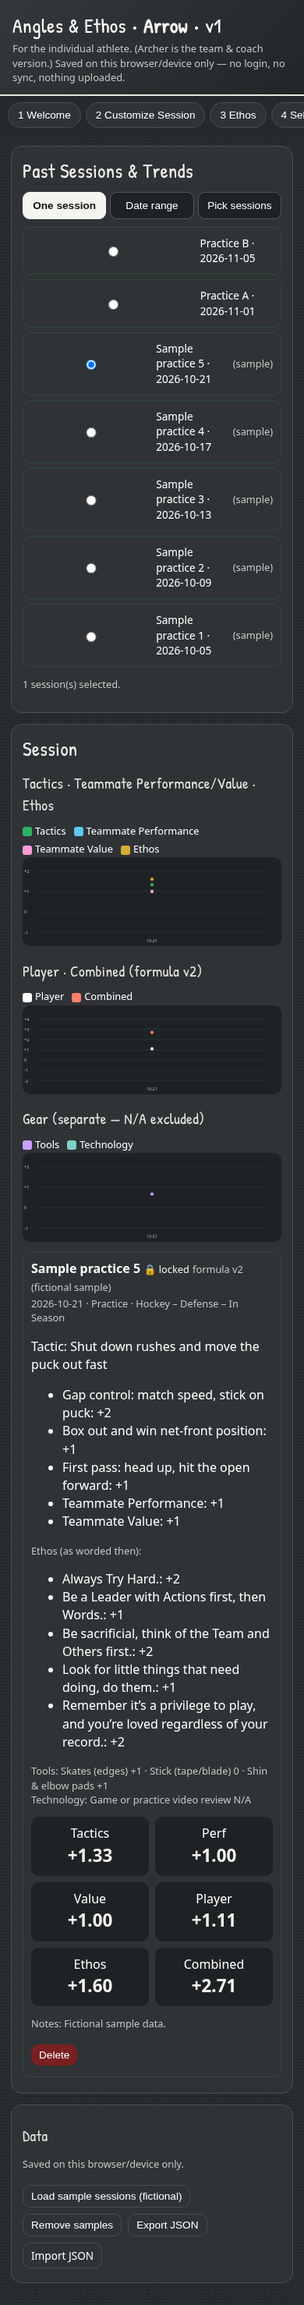
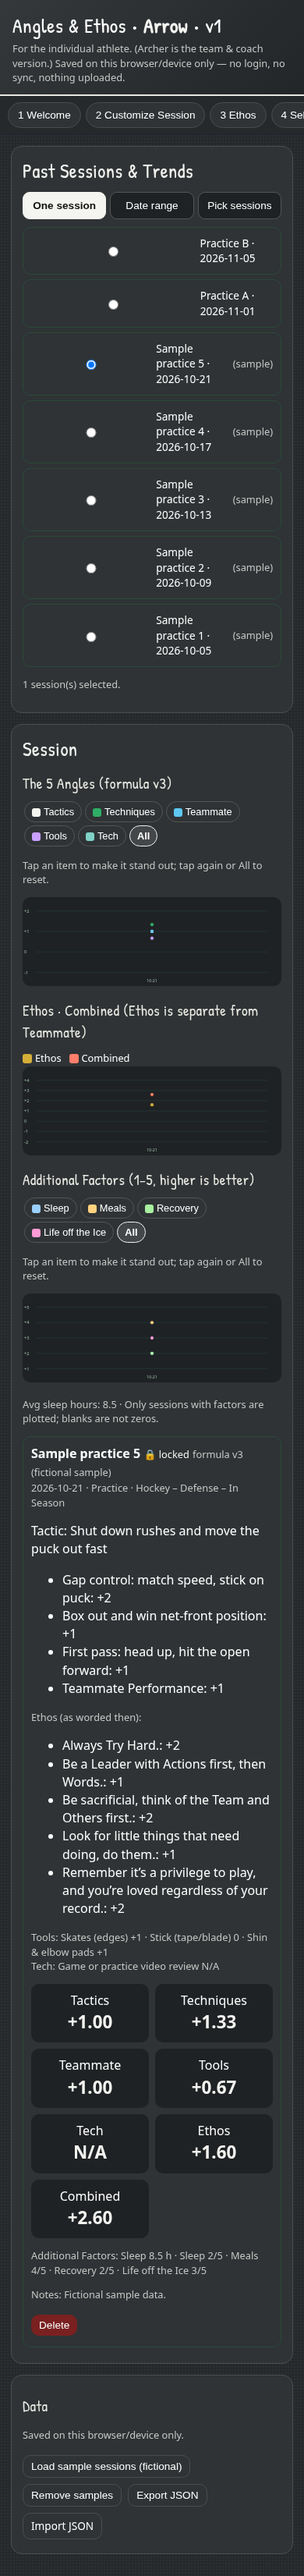
v3: Tactics rollup card, Angle order, trend highlight, Additional Factors

Changed region(s): [[0.0615, 0.5293, 0.8923, 0.9963], [0.0308, 0.0, 0.8923, 0.4981], [0.9231, 0.0311, 1.0, 0.0623]]

diff --git a/index.html b/index.html
@@ -39,7 +39,7 @@ body.chalk blockquote{background:#33373a}body.chalk h2{letter-spacing:.02em}
 body.chalk .sc button[aria-pressed=true]{background:#f4f4f0;color:#111;border-color:#f4f4f0}body.chalk nav{background:#26292b}@font-face{font-family:'Patrick Hand';src:url(fonts/PatrickHand-Regular.ttf) format('truetype');font-display:swap}
 header h1,h2,h3,.eq{font-family:'Patrick Hand','Segoe Print','Bradley Hand',system-ui,sans-serif;font-weight:400;letter-spacing:.02em}
 header h1{font-size:1.6rem}h2{font-size:1.55rem}h3{font-size:1.2rem}.eq{font-size:1.45rem}
-body.chalk header h1,body.chalk h2,body.chalk .eq{text-shadow:0 0 1px rgba(255,255,255,.35)}</style></head><body>
+body.chalk header h1,body.chalk h2,body.chalk .eq{text-shadow:0 0 1px rgba(255,255,255,.35)}.lgb{background:transparent;color:var(--w);border:1px solid #555;border-radius:16px;padding:5px 9px;margin:2px;font-size:.8rem;cursor:pointer}.lgb[aria-pressed=true]{border-color:var(--au);background:#ffffff1a;font-weight:700}.lgb i{display:inline-block;width:11px;height:11px;border-radius:3px;margin-right:4px;vertical-align:middle}</style></head><body>
 <header><h1>Angles &amp; Ethos • <b>Arrow</b> • v1</h1><p>For the individual athlete. (Archer is the team &amp; coach version.) Saved on this browser/device only — no login, no sync, nothing uploaded.</p></header>
 <nav role="tablist" id="nav"></nav>
 <main id="app"></main><div class="toast" id="toast" role="status"></div>
@@ -62,9 +62,10 @@ Goalie:{
  'In Season':{tactic:'Track the puck and control rebounds',tech:['Set angle and depth before the shot','Rebound control into corners','Post-to-post push and seal'],tools:['Pads & blocker/glove','Mask','Goalie skates'],techn:['Save/rebound video review']},
  'Off Season':{tactic:'Build reaction, flexibility, and movement',tech:['Reaction ball / tracking drills','Hip mobility & flexibility','T-push & shuffle footwork'],tools:['Reaction ball','Mobility band','Training shoes'],techn:['Vision-training app']}}};
 let S=load();
-function blankDraft(){const s=SUG.Defense['In Season'];return {name:'',date:new Date().toISOString().slice(0,10),type:'Practice',sport:'Hockey',position:'Defense',season:'In Season',tactic:s.tactic,techniques:[...s.tech],tools:[...s.tools],techn:[...s.techn],tmPerf:'How well did I execute my skills?',tmVal:'How much did I contribute to the team today?',scores:blankScores(3,3,1),notes:''}}
+function blankDraft(){const s=SUG.Defense['In Season'];return {name:'',date:new Date().toISOString().slice(0,10),type:'Practice',sport:'Hockey',position:'Defense',season:'In Season',tactic:s.tactic,techniques:[...s.tech],tools:[...s.tools],techn:[...s.techn],tmPerf:'How well did I execute my skills?',tmVal:'How much did I contribute to the team today?',scores:blankScores(3,3,1),factors:blankFactors(),notes:''}}
+function blankFactors(){return {sleepH:'',sleep:null,meals:null,mealNote:'',recovery:null,life:null,note:''}}
 function blankScores(nt,nto,nte){return {tech:Array(nt).fill(null),perf:null,val:null,ethos:Array(5).fill(null),tools:Array(nto).fill(null),techn:Array(nte).fill(null)}}
-function load(){try{const d=JSON.parse(localStorage.getItem(KEY));if(d&&d.v===1){if(!d.theme)d.theme={...CLASSIC};d.sessions.forEach(x=>{if(x.sample&&!x.fv){x.scores.val=x.scores.perf;x.fv=2}nz(x)});if(d.draft.scores.val===undefined)d.draft.scores.val=null;if(!d.draft.tmPerf){d.draft.tmPerf='How well did I execute my skills?';d.draft.tmVal='How much did I contribute to the team today?'}return d}}catch(e){}return {v:1,theme:{...CHALK},tab:'welcome',ethos:[...DEF_ETHOS],draft:blankDraft(),sessions:[],sel:{mode:'single',ids:[],from:'',to:''}}}
+function load(){try{const d=JSON.parse(localStorage.getItem(KEY));if(d&&d.v===1){if(!d.theme)d.theme={...CLASSIC};d.sessions.forEach(x=>{if(x.sample&&!x.fv){x.scores.val=x.scores.perf;x.fv=2}nz(x)});if(!d.draft.factors)d.draft.factors=blankFactors();if(d.draft.scores.val===undefined)d.draft.scores.val=null;if(!d.draft.tmPerf){d.draft.tmPerf='How well did I execute my skills?';d.draft.tmVal='How much did I contribute to the team today?'}return d}}catch(e){}return {v:1,theme:{...CHALK},tab:'welcome',ethos:[...DEF_ETHOS],draft:blankDraft(),sessions:[],sel:{mode:'single',ids:[],from:'',to:''}}}
 function nz(s){if(!s.fv)s.fv=(s.scores&&s.scores.val!==undefined)?2:1;s.results=calc(s.scores,s.fv);return s}
 function save(){localStorage.setItem(KEY,JSON.stringify(S))}
 const $=s=>document.querySelector(s);const esc=t=>String(t??'').replace(/[&<>"]/g,c=>({'&':'&amp;','<':'&lt;','>':'&gt;','"':'&quot;'}[c]));
@@ -73,9 +74,15 @@ function go(t){S.tab=t;save();render();scrollTo(0,0)}
 function avg(a){a=a.filter(x=>typeof x==='number');return a.length?a.reduce((p,c)=>p+c,0)/a.length:null}
 const f=x=>x==null?'—':(x>0?'+':'')+x.toFixed(2);
 // fv 2 (current): Player=(Tactics+Perf+Value)/3, Combined=Player+Ethos. fv 1 (legacy, pre-Teammate): Value derived from Ethos, Player=(Tactics+Perf)/2, Combined=Player+Ethos.
-function calc(sc,fv=2){const tactics=avg(sc.tech),perf=sc.perf,ethos=avg(sc.ethos);let val=null,player=null;
+// fv 3 (current): Techniques=mean of technique ratings (all required); Teammate=(Perf+Value)/2; Tools/Tech=mean of applicable items (N/A excluded);
+// Tactics=mean of the applicable supporting Angles (Techniques, Teammate, Tools, Tech); Player=Tactics; Ethos=mean of 5; Combined=Player+Ethos.
+function calc(sc,fv=3){if(fv===3){const techniques=(sc.tech.length&&!sc.tech.some(x=>typeof x!=='number'))?avg(sc.tech):null,perf=sc.perf??null,val=sc.val??null;
+ const teammate=(perf!=null&&val!=null)?(perf+val)/2:null,tools=avg(sc.tools||[]),techn=avg(sc.techn||[]),ethos=(sc.ethos.some(x=>x==null))?null:avg(sc.ethos);
+ const comps=[techniques,teammate,tools,techn].filter(x=>x!=null);const tactics=(techniques!=null&&teammate!=null)?avg(comps):null;
+ return {fv,techniques,perf,val,teammate,tools,techn,tactics,denom:comps.length,ethos,player:tactics,combined:(tactics!=null&&ethos!=null)?tactics+ethos:null}}
+const tactics=avg(sc.tech),perf=sc.perf,ethos=avg(sc.ethos);let val=null,player=null;
  if(fv===2){val=sc.val??null;player=(tactics!=null&&perf!=null&&val!=null)?(tactics+perf+val)/3:null}else player=(tactics!=null&&perf!=null)?(tactics+perf)/2:null;
- return {fv,tactics,perf,val,ethos,player,combined:(player!=null&&ethos!=null)?player+ethos:null,tools:avg(sc.tools),techn:avg(sc.techn)}}
+ return {fv,tactics,techniques:tactics,perf,val,ethos,player,combined:(player!=null&&ethos!=null)?player+ethos:null,tools:avg(sc.tools),techn:avg(sc.techn)}}
 function render(){
  applyTheme();
  $('#nav').innerHTML=TABS.map(([k,l])=>`<button role="tab" aria-selected="${S.tab===k}" onclick="go('${k}')">${l}</button>`).join('');
@@ -94,7 +101,7 @@ function vWelcome(){return `<div class="card"><h2>Welcome to your Angles&amp;Eth
 <h3>The 5 Angles</h3><ol>
 <li><b>Tactics</b> — the plan.</li><li><b>Techniques</b> — the steps to execute the plan.</li>
 <li><b>Teammate</b> — you as a teammate: your <b>Performance</b> (skill, execution) and your <b>Value</b> (contribution, values). In Arrow you score only yourself; your 5 Ethos principles are scored separately.</li>
-<li><b>Tools</b> — the required gear to compete.</li><li><b>Technology</b> — enhancements and enrichments. Helpful, not required.</li></ol>
+<li><b>Tools</b> — the required gear to compete.</li><li><b>Tech</b> (technology) — enhancements and enrichments. Helpful, not required.</li></ol>
 <button class="btn gold" onclick="go('session')">Build my first session →</button>
 <p class="note">Everything stays on this browser/device. Clearing browser data erases it — use Export on Past &amp; Trends to keep a backup.</p></div>`+vColors()}
 function opts(list,v){return list.map(o=>`<option ${o===v?'selected':''}>${o}</option>`).join('')}
@@ -109,7 +116,7 @@ function applySug(){const d=S.draft,s=SUG[d.position][d.season];if(!confirm(`Rep
 function repeatLast(){const last=[...S.sessions].filter(x=>!x.sample).sort((a,b)=>b.savedAt-a.savedAt)[0]||[...S.sessions].sort((a,b)=>b.savedAt-a.savedAt)[0];if(!last)return toast('No saved session yet');
  if(!confirm(`Copy the plan from "${last.name}" (${last.date})? Scores and notes start fresh.`))return;
  const p=last.plan;Object.assign(S.draft,{tmPerf:p.tmPerf||S.draft.tmPerf,tmVal:p.tmVal||S.draft.tmVal,type:p.type,sport:p.sport,position:p.position,season:p.season,tactic:p.tactic,techniques:[...p.techniques],tools:[...p.tools],techn:[...p.techn],name:'',notes:'',date:new Date().toISOString().slice(0,10)});
- S.draft.scores=blankScores(p.techniques.length,p.tools.length,p.techn.length);save();render();toast('Plan copied — scores cleared')}
+ S.draft.scores=blankScores(p.techniques.length,p.tools.length,p.techn.length);S.draft.factors=blankFactors();save();render();toast('Plan copied — scores cleared')}
 function vSession(){const d=S.draft;const has=S.sessions.length>0;return `<div class="card"><h2>Customize Session</h2>
 <p class="note">Your draft saves automatically as you type.</p>
 ${has?`<button class="btn ghost" id="repeat" onclick="repeatLast()">↻ Repeat last session’s plan</button><p class="note">Copies the plan only — never scores.</p>`:''}
@@ -123,11 +130,11 @@ ${has?`<button class="btn ghost" id="repeat" onclick="repeatLast()">↻ Repeat l
 <p class="note">Suggestions are starting points, not expert prescriptions. Edit anything.</p>
 <h3>1 · Tactics (the plan)</h3><input aria-label="Tactic" value="${esc(d.tactic)}" oninput="setF('tactic',this.value)">
 <h3>2 · Techniques (steps to execute)</h3>${listEd('techniques','Technique')}
-<h3>4 · Tools (required gear)</h3>${listEd('tools','Tool')}
-<h3>5 · Technology (optional)</h3>${listEd('techn','Technology')}
 <h3>3 · Teammate (you, self-scored)</h3><p class="note">About you as a teammate — not other people.</p>
 <label for="tp">Performance prompt (skill/execution)</label><input id="tp" value="${esc(d.tmPerf)}" oninput="setF('tmPerf',this.value)">
 <label for="tv">Value prompt (contribution/values)</label><input id="tv" value="${esc(d.tmVal)}" oninput="setF('tmVal',this.value)">
+<h3>4 · Tools (required gear)</h3>${listEd('tools','Tool')}
+<h3>5 · Tech (technology, optional)</h3>${listEd('techn','Tech item')}
 <button class="btn gold" onclick="go('ethos')">Next: Ethos →</button></div>`}
 function vEthos(){return `<div class="card"><h2>Ethos Customization</h2><p>Your 5 Ethos principles define your <b>Value</b> as a teammate. Edit to make them yours.</p>
 ${S.ethos.map((e,i)=>`<label for="e${i}">Ethos ${i+1}</label><input id="e${i}" value="${esc(e)}" oninput="S.ethos[${i}]=this.value;save()">`).join('')}
@@ -140,27 +147,42 @@ function missing(){const d=S.draft,sc=d.scores,m=[];if(!d.date)m.push('date');if
  const tl=d.techniques.filter(t=>t.trim());if(!tl.length)m.push('at least one Technique');
  d.techniques.forEach((t,i)=>{if(t.trim()&&sc.tech[i]==null)m.push('Technique '+(i+1)+' score')});
  if(sc.perf==null)m.push('Teammate Performance');if(sc.val==null)m.push('Teammate Value');sc.ethos.forEach((e,i)=>{if(e==null)m.push('Ethos '+(i+1))});return m}
-function vScore(){const d=S.draft,sc=d.scores;const r=calc(clean(d).scores,2);const m=missing();
+function vScore(){const d=S.draft,sc=d.scores;const r=calc(clean(d).scores,3);const m=missing();
  return `<div class="card"><h2>Self Score</h2><p class="note">${esc(d.name||'Untitled')} · ${d.date} · ${d.type} · ${d.sport} – ${d.position} – ${d.season}<br>Tactic: <b>${esc(d.tactic)}</b></p>
 <p class="note">Scale: −1 Bad · 0 Average · +1 Good · +2 Excellent. Tap again to clear.</p>
-<h3>Techniques</h3>${d.techniques.map((t,i)=>t.trim()?`<label>${esc(t)}</label>${scale('tech.'+i,sc.tech[i])}`:'').join('')}
-<h3>Teammate · Self</h3><label>Performance (skill/execution): ${esc(d.tmPerf)}</label>${scale('perf',sc.perf)}
+<div class="card" id="tacticsCard" style="border:2px solid var(--au);margin:10px 0"><h3 style="margin-top:0">Tactics Score <span style="float:right;color:var(--au);font-size:1.5rem">${r.tactics==null?'pending':f(r.tactics)}</span></h3>
+<p class="note">Your 4 other Angles produce your Tactics Score — the plan is only as strong as the work that carries it out.</p>
+<div class="res"><div>Techniques<b>${f(r.techniques)}</b></div><div>Teammate<b>${f(r.teammate)}</b></div><div>Tools<b>${r.tools==null?'N/A':f(r.tools)}</b></div><div>Tech<b>${r.techn==null?'N/A':f(r.techn)}</b></div></div>
+<p class="note" id="denom">${r.tactics==null?'Pending until all Technique ratings plus Teammate Performance and Value are in. Nothing counts as zero.':`Tactics = average of ${r.denom} active Angles (${['Techniques','Teammate',r.tools!=null?'Tools':null,r.techn!=null?'Tech':null].filter(Boolean).join(', ')}). Tools/Tech marked N/A or unscored are left out.`}</p></div>
+<h3>2 · Techniques</h3>${d.techniques.map((t,i)=>t.trim()?`<label>${esc(t)}</label>${scale('tech.'+i,sc.tech[i])}`:'').join('')}
+<h3>3 · Teammate · Self</h3><p class="note">Teammate = (Performance + Value) ÷ 2</p><label>Performance (skill/execution): ${esc(d.tmPerf)}</label>${scale('perf',sc.perf)}
 <label>Value (contribution/values): ${esc(d.tmVal)}</label>${scale('val',sc.val)}
+<h3>4 · Tools <span class="note">(optional · N/A if not used — never counted as zero)</span></h3>${d.tools.map((t,i)=>t.trim()?`<label>${esc(t)}</label>${scale('tools.'+i,sc.tools[i],1)}`:'').join('')||'<p class="note">None listed.</p>'}
+<h3>5 · Tech <span class="note">(optional · N/A if not used)</span></h3>${d.techn.map((t,i)=>t.trim()?`<label>${esc(t)}</label>${scale('techn.'+i,sc.techn[i],1)}`:'').join('')||'<p class="note">None listed — that’s fine.</p>'}
 <h3>Ethos (5 principles)</h3>${S.ethos.map((e,i)=>`<label>${esc(e)}</label>${scale('ethos.'+i,sc.ethos[i])}`).join('')}
-<h3>Tools <span class="note">(optional · scored separately, never affects Performance)</span></h3>${d.tools.map((t,i)=>t.trim()?`<label>${esc(t)}</label>${scale('tools.'+i,sc.tools[i],1)}`:'').join('')||'<p class="note">None listed.</p>'}
-<h3>Technology <span class="note">(optional · N/A if not used)</span></h3>${d.techn.map((t,i)=>t.trim()?`<label>${esc(t)}</label>${scale('techn.'+i,sc.techn[i],1)}`:'').join('')||'<p class="note">None listed — that’s fine.</p>'}
-<label for="nt">Notes (optional)</label><textarea id="nt" oninput="setF('notes',this.value)">${esc(d.notes)}</textarea>
-<h3>Results</h3><div class="res"><div>Tactics<b>${f(r.tactics)}</b></div><div>Performance<b>${f(r.perf)}</b></div><div>Value<b>${f(r.val)}</b></div><div>Player<b>${f(r.player)}</b></div><div>Ethos<b>${f(r.ethos)}</b></div><div>Combined<b>${f(r.combined)}</b></div><div>Tools / Tech<b style="font-size:1rem">${f(r.tools)} / ${f(r.techn)}</b></div></div>
-<p class="note"><b>Formulas (v2):</b> Tactics = average of Technique scores · Player = (Tactics + Teammate Performance + Teammate Value) ÷ 3 · Ethos = average of the 5 Ethos scores · Combined = Player + Ethos (range −2 to +4) · Tools and Technology = averages of scored items, N/A excluded, shown separately.</p>
+${vFactors(d.factors)}<label for="nt">Session notes (optional)</label><textarea id="nt" oninput="setF('notes',this.value)">${esc(d.notes)}</textarea>
+<h3>Results</h3><div class="res"><div>Tactics (Player)<b>${f(r.tactics)}</b></div><div>Ethos<b>${f(r.ethos)}</b></div><div>Combined<b>${f(r.combined)}</b></div></div>
+<p class="note"><b>Formulas (v3):</b> Techniques = average of Technique ratings · Teammate = (Performance + Value) ÷ 2 · Tools / Tech = average of scored items, N/A left out · Tactics = average of the applicable Angles among Techniques, Teammate, Tools, Tech · Player = Tactics · Ethos = average of the 5 Ethos scores (separate from Teammate) · Combined = Player + Ethos (range −2 to +4). Additional Factors are tracked separately and never change these scores.</p>
 ${m.length?`<p class="warn" id="miss">Still needed: ${m.join(', ')}</p>`:''}
 <button class="btn ghost" onclick="go('ethos')">← Ethos</button><button class="btn gold" id="saveBtn" onclick="saveSession()">Save session 🔒</button>
-<button class="btn sm danger" onclick="if(confirm('Clear all scores and notes in this draft?')){S.draft.scores=blankScores(d.techniques.length,d.tools.length,d.techn.length);S.draft.notes='';save();render()}">Clear scores</button></div>`}
+<button class="btn sm danger" onclick="if(confirm('Clear all scores and notes in this draft?')){S.draft.scores=blankScores(d.techniques.length,d.tools.length,d.techn.length);S.draft.factors=blankFactors();S.draft.notes='';save();render()}">Clear scores</button></div>`}
+const FAC=[['sleep','Sleep'],['meals','Meals'],['recovery','Recovery'],['life','Life off the Ice']];
+function setFac(k,v){const F=S.draft.factors;F[k]=F[k]===v?null:v;save();render()}
+function r5(k,v){return `<div class="sc" role="group" aria-label="${k}">${[1,2,3,4,5].map(n=>`<button aria-pressed="${v===n}" onclick="setFac('${k}',${n})">${n}</button>`).join('')}</div>`}
+function vFactors(F){return `<div id="factors"><h3>Additional Factors <span class="note">(optional)</span></h3>
+<p id="facIntro">How we handle sleep, meals, recovery, and life off the ice influences the performance and value we bring as a Teammate. It also shows how seriously we put our Ethos commitments into practice. This is a place to notice patterns—not judge yourself for circumstances outside your control.</p>
+<p class="note"><b>1 to 5, higher is better.</b> Add when able — even a couple helps you spot patterns. These stay private and never change your Angle scores.</p>
+<div class="row"><div><label for="slh">Sleep hours</label><input id="slh" type="number" min="0" max="24" step="0.5" inputmode="decimal" value="${esc(F.sleepH)}" oninput="S.draft.factors.sleepH=this.value;save()"></div></div>
+<label>Sleep</label>${r5('sleep',F.sleep)}<label>Meals</label>${r5('meals',F.meals)}
+<label for="mn">Meal note (optional)</label><input id="mn" value="${esc(F.mealNote)}" oninput="S.draft.factors.mealNote=this.value;save()">
+<label>Recovery</label>${r5('recovery',F.recovery)}<label>Life off the Ice</label>${r5('life',F.life)}
+<label for="fn">Other factors note (optional)</label><textarea id="fn" oninput="S.draft.factors.note=this.value;save()">${esc(F.note)}</textarea></div>`}
 function clean(d){const k=(arr,s)=>arr.map((t,i)=>[t.trim(),s[i]]).filter(x=>x[0]);const te=k(d.techniques,d.scores.tech),to=k(d.tools,d.scores.tools),tc=k(d.techn,d.scores.techn);
  const num=v=>typeof v==='number'?v:null;
  return {plan:{tmPerf:d.tmPerf,tmVal:d.tmVal,type:d.type,sport:d.sport,position:d.position,season:d.season,tactic:d.tactic.trim(),techniques:te.map(x=>x[0]),tools:to.map(x=>x[0]),techn:tc.map(x=>x[0])},
  scores:{tech:te.map(x=>x[1]),perf:d.scores.perf,val:d.scores.val,ethos:[...d.scores.ethos],tools:to.map(x=>num(x[1])),techn:tc.map(x=>num(x[1]))},raw:{tools:to.map(x=>x[1]??'na'),techn:tc.map(x=>x[1]??'na')}}}
 function saveSession(){const m=missing();if(m.length){toast('Finish the required scores first');render();return}
- const d=S.draft,c=clean(d);const s={id:'s'+Date.now(),savedAt:Date.now(),name:d.name.trim()||`${d.type} ${d.date}`,date:d.date,plan:c.plan,ethos:[...S.ethos],scores:c.scores,gear:c.raw,notes:d.notes,fv:2,results:calc(c.scores,2)};
+ const d=S.draft,c=clean(d);const s={id:'s'+Date.now(),savedAt:Date.now(),name:d.name.trim()||`${d.type} ${d.date}`,date:d.date,plan:c.plan,ethos:[...S.ethos],scores:c.scores,gear:c.raw,factors:{...d.factors},notes:d.notes,fv:3,results:calc(c.scores,3)};
  s.ethosSnapshot=Object.freeze([...S.ethos]);S.sessions.push(s);
  const p=c.plan;S.draft={...blankDraft(),tmPerf:d.tmPerf,tmVal:d.tmVal,position:p.position,season:p.season,tactic:p.tactic,techniques:[...p.techniques],tools:[...p.tools],techn:[...p.techn],type:p.type};
  S.draft.scores=blankScores(p.techniques.length,p.tools.length,p.techn.length);S.sel={mode:'single',ids:[s.id],from:'',to:''};save();toast('Session saved & locked 🔒');go('past')}
@@ -168,17 +190,20 @@ function selected(){const L=[...S.sessions].sort((a,b)=>a.date.localeCompare(b.d
  if(q.mode==='range')return L.filter(s=>(!q.from||s.date>=q.from)&&(!q.to||s.date<=q.to));return L.filter(s=>q.ids.includes(s.id))}
 function setMode(m){S.sel.mode=m;if(m==='single')S.sel.ids=S.sel.ids.slice(-1);save();render()}
 function pick(id,on){if(S.sel.mode==='single')S.sel.ids=[id];else{S.sel.ids=S.sel.ids.filter(x=>x!==id);if(on)S.sel.ids.push(id)}save();render()}
-function chart(sel,series,min,max,title){if(!sel.length)return '';const W=640,H=220,P=34,n=sel.length;const x=i=>n===1?W/2:P+i*(W-2*P)/(n-1),y=v=>H-P-(v-min)*(H-2*P)/(max-min);
+function chart(sel,series,min,max,title,grp,get){get=get||((s,k)=>s.results[k]);const hl=grp?(S.hl||{})[grp]:null;if(!sel.length)return '';const W=640,H=220,P=34,n=sel.length;const x=i=>n===1?W/2:P+i*(W-2*P)/(n-1),y=v=>H-P-(v-min)*(H-2*P)/(max-min);
  let g='';for(let v=min;v<=max;v++)g+=`<line x1="${P}" x2="${W-P}" y1="${y(v)}" y2="${y(v)}" stroke="#244" /><text x="4" y="${y(v)+4}" fill="#9fbfa9" font-size="11">${v>0?'+':''}${v}</text>`;
- series.forEach(([k,c])=>{const pts=sel.map((s,i)=>s.results[k]==null?null:[x(i),y(s.results[k])]).filter(Boolean);if(pts.length>1)g+=`<polyline fill="none" stroke="${c}" stroke-width="3" points="${pts.map(p=>p.join(',')).join(' ')}"/>`;pts.forEach(p=>g+=`<circle cx="${p[0]}" cy="${p[1]}" r="4" fill="${c}"/>`)});
+ series.forEach(([k,c])=>{const v=s=>{const z=get(s,k);return typeof z==='number'?z:null};const pts=sel.map((s,i)=>v(s)==null?null:[x(i),y(v(s))]).filter(Boolean);const on=!hl||hl===k,op=on?1:.18,sw=hl===k?6:3;g+=`<g data-k="${k}" opacity="${op}">`;if(pts.length>1)g+=`<polyline fill="none" stroke="${c}" stroke-width="${sw}" points="${pts.map(p=>p.join(',')).join(' ')}"/>`;pts.forEach(p=>g+=`<circle cx="${p[0]}" cy="${p[1]}" r="${hl===k?6:4}" fill="${c}"/>`);g+='</g>'});
  sel.forEach((s,i)=>g+=`<text x="${x(i)}" y="${H-10}" fill="#9fbfa9" font-size="10" text-anchor="middle">${s.date.slice(5)}</text>`);
- return `<h3>${title}</h3><div class="legend">${series.map(([k,c,l])=>`<span><i style="background:${c}"></i>${l}</span>`).join('')}</div><svg viewBox="0 0 ${W} ${H}" role="img" aria-label="${title}">${g}</svg>`}
+ const lg=grp?`<div class="legend" role="group" aria-label="Highlight a line">${series.map(([k,c,l])=>`<button class="lgb" data-hl="${k}" aria-pressed="${hl===k}" onclick="setHL('${grp}','${k}')"><i style="background:${c}"></i>${l}</button>`).join('')}<button class="lgb" aria-pressed="${!hl}" onclick="setHL('${grp}',null)">All</button></div><p class="note">Tap an item to make it stand out; tap again or All to reset.</p>`:`<div class="legend">${series.map(([k,c,l])=>`<span><i style="background:${c}"></i>${l}</span>`).join('')}</div>`;return `<h3>${title}</h3>${lg}<svg viewBox="0 0 ${W} ${H}" role="img" aria-label="${title}">${g}</svg>`}
+function facDetail(F){if(!F)return '';const it=[F.sleepH!==''&&F.sleepH!=null?`Sleep ${esc(F.sleepH)} h`:null,...FAC.map(([k,l])=>F[k]!=null?`${l} ${F[k]}/5`:null)].filter(Boolean);
+ return `<p class="note">Additional Factors: ${it.join(' · ')||'none added'}${F.mealNote?`<br>Meal note: ${esc(F.mealNote)}`:''}${F.note?`<br>Other: ${esc(F.note)}`:''}</p>`}
+function setHL(g,k){S.hl=S.hl||{};S.hl[g]=(k&&S.hl[g]!==k)?k:null;save();render()}
 function detail(s){const r=s.results,sc=s.scores,p=s.plan,lab=v=>v==null||v==='na'?'N/A':(v>0?'+':'')+v;
- return `<div class="sess"><b>${esc(s.name)}</b> <span class="lock">🔒 locked</span> <span class="note">${s.fv===2?'formula v2':'legacy v1 formula: no Teammate Value; Player = (Tactics + Perf) ÷ 2'}</span>${s.sample?' <span class="note">(fictional sample)</span>':''}<div class="note">${s.date} · ${p.type} · ${p.sport} – ${p.position} – ${p.season}</div>
+ return `<div class="sess"><b>${esc(s.name)}</b> <span class="lock">🔒 locked</span> <span class="note">${s.fv===3?'formula v3':s.fv===2?'older formula v2: Tactics = technique average; Player = (Tactics + Perf + Value) ÷ 3':'legacy v1 formula: no Teammate Value; Player = (Tactics + Perf) ÷ 2'}</span>${s.sample?' <span class="note">(fictional sample)</span>':''}<div class="note">${s.date} · ${p.type} · ${p.sport} – ${p.position} – ${p.season}</div>
 <p>Tactic: ${esc(p.tactic)}</p><ul>${p.techniques.map((t,i)=>`<li>${esc(t)}: ${lab(sc.tech[i])}</li>`).join('')}<li>Teammate Performance: ${lab(sc.perf)}</li>${s.fv===2?`<li>Teammate Value: ${lab(sc.val)}</li>`:''}</ul>
 <p class="note">Ethos (as worded then):</p><ul>${s.ethos.map((e,i)=>`<li>${esc(e)}: ${lab(sc.ethos[i])}</li>`).join('')}</ul>
-<p class="note">Tools: ${p.tools.map((t,i)=>esc(t)+' '+lab(s.gear.tools[i])).join(' · ')||'none'}<br>Technology: ${p.techn.map((t,i)=>esc(t)+' '+lab(s.gear.techn[i])).join(' · ')||'none'}</p>
-<div class="res"><div>Tactics<b>${f(r.tactics)}</b></div><div>Perf<b>${f(r.perf)}</b></div><div>Value<b>${s.fv===2?f(r.val):'n/a (legacy)'}</b></div><div>Player<b>${f(r.player)}</b></div><div>Ethos<b>${f(r.ethos)}</b></div><div>Combined<b>${f(r.combined)}</b></div></div>
+<p class="note">Tools: ${p.tools.map((t,i)=>esc(t)+' '+lab(s.gear.tools[i])).join(' · ')||'none'}<br>Tech: ${p.techn.map((t,i)=>esc(t)+' '+lab(s.gear.techn[i])).join(' · ')||'none'}</p>
+${s.fv===3?`<div class="res"><div>Tactics<b>${f(r.tactics)}</b></div><div>Techniques<b>${f(r.techniques)}</b></div><div>Teammate<b>${f(r.teammate)}</b></div><div>Tools<b>${r.tools==null?'N/A':f(r.tools)}</b></div><div>Tech<b>${r.techn==null?'N/A':f(r.techn)}</b></div><div>Ethos<b>${f(r.ethos)}</b></div><div>Combined<b>${f(r.combined)}</b></div></div>`+facDetail(s.factors):`<div class="res"><div>Tactics<b>${f(r.tactics)}</b></div><div>Perf<b>${f(r.perf)}</b></div><div>Value<b>${s.fv===2?f(r.val):'n/a (legacy)'}</b></div><div>Player<b>${f(r.player)}</b></div><div>Ethos<b>${f(r.ethos)}</b></div><div>Combined<b>${f(r.combined)}</b></div></div>`}
 ${s.notes?`<p class="note">Notes: ${esc(s.notes)}</p>`:''}<button class="btn sm danger" onclick="delS('${s.id}')">Delete</button></div>`}
 function delS(id){const s=S.sessions.find(x=>x.id===id);if(!confirm(`Delete "${s.name}" permanently?`))return;S.sessions=S.sessions.filter(x=>x.id!==id);S.sel.ids=S.sel.ids.filter(x=>x!==id);save();render()}
 function vPast(){const L=[...S.sessions].sort((a,b)=>b.date.localeCompare(a.date)||b.savedAt-a.savedAt),q=S.sel,sel=selected();
@@ -190,19 +215,26 @@ ${q.mode==='range'?`<div class="row"><div><label for="fr">From</label><input id=
  L.map(s=>`<div class="sess"><label><input type="${q.mode==='single'?'radio':'checkbox'}" name="ps" ${q.ids.includes(s.id)?'checked':''} onchange="pick('${s.id}',this.checked)"> ${esc(s.name)} · ${s.date} ${s.sample?'<span class="note">(sample)</span>':''}</label></div>`).join('')}
 <p class="note">${sel.length} session(s) selected.</p></div>
 ${sel.length?`<div class="card"><h2>${sel.length===1?'Session':'Big picture'}</h2>
-${sel.length>1?`<div class="res"><div>Avg Tactics<b>${f(a('tactics'))}</b></div><div>Avg Perf<b>${f(a('perf'))}</b></div><div>Avg Value<b>${f(a('val'))}</b></div><div>Avg Ethos<b>${f(a('ethos'))}</b></div><div>Avg Tools<b>${f(a('tools'))}</b></div><div>Avg Tech<b>${f(a('techn'))}</b></div></div>`:''}
-${chart(sel,[['tactics','#2fae66','Tactics'],['perf','#5ec8f2','Teammate Performance'],['val','#ff9ad5','Teammate Value'],['ethos','#d4af37','Ethos']],-1,2,'Tactics · Teammate Performance/Value · Ethos')}
-${(()=>{const n=sel.filter(s=>s.fv===2),o=sel.filter(s=>s.fv!==2);return (n.length?(n.length>1?`<p class="note">v2 averages: Player ${f(avg(n.map(s=>s.results.player)))} · Combined ${f(avg(n.map(s=>s.results.combined)))}</p>`:'')+chart(n,[['player','#ffffff','Player'],['combined','#ff7f6b','Combined']],-2,4,'Player · Combined (formula v2)'):'')+(o.length?chart(o,[['player','#bbbbbb','Player'],['combined','#c86a5a','Combined']],-2,4,'Player · Combined (legacy v1 formula — not comparable to v2)'):'')})()}
-${chart(sel,[['tools','#c9a0ff','Tools'],['techn','#7fd1c7','Technology']],-1,2,'Gear (separate — N/A excluded)')}
+${trends(sel)}
 ${sel.length===1?detail(sel[0]):sel.slice().reverse().map(detail).join('')}</div>`:`<div class="card"><p>Select a session or date range above to see results.</p></div>`}
 <div class="card">${tools()}</div>`}
+function trends(sel){const n=sel.filter(s=>s.fv===3),o=sel.filter(s=>s.fv!==3);let h='';
+ if(n.length){const A=k=>f(avg(n.map(s=>s.results[k])));
+  if(n.length>1)h+=`<div class="res"><div>Avg Tactics<b>${A('tactics')}</b></div><div>Avg Techniques<b>${A('techniques')}</b></div><div>Avg Teammate<b>${A('teammate')}</b></div><div>Avg Tools<b>${A('tools')}</b></div><div>Avg Tech<b>${A('techn')}</b></div><div>Avg Ethos<b>${A('ethos')}</b></div><div>Avg Combined<b>${A('combined')}</b></div></div><p class="note">Averages use only scored values; N/A and missing are left out.</p>`;
+  h+=chart(n,[['tactics','#f4f4f0','Tactics'],['techniques','#2fae66','Techniques'],['teammate','#5ec8f2','Teammate'],['tools','#c9a0ff','Tools'],['techn','#7fd1c7','Tech']],-1,2,'The 5 Angles (formula v3)','angles');
+  h+=chart(n,[['ethos','#d4af37','Ethos'],['combined','#ff7f6b','Combined']],-2,4,'Ethos · Combined (Ethos is separate from Teammate)');
+  const fs=n.filter(s=>s.factors&&FAC.some(([k])=>s.factors[k]!=null));
+  if(fs.length){const hrs=avg(n.map(s=>s.factors&&s.factors.sleepH!==''?parseFloat(s.factors.sleepH):null));h+=chart(fs,FAC.map(([k,l],i)=>[k,['#9ad0ff','#ffd27f','#a8f0a0','#ff9ad5'][i],l]),1,5,'Additional Factors (1–5, higher is better)','factors',(s,k)=>s.factors[k])+`<p class="note">Avg sleep hours: ${hrs==null?'—':hrs.toFixed(1)} · Only sessions with factors are plotted; blanks are not zeros.</p>`}
+  else h+=`<p class="note">No Additional Factors added in these sessions yet.</p>`}
+ if(o.length){h+=`<h3>Older sessions (formula v1/v2 — not comparable to v3)</h3><p class="note">In these, “Tactics” meant the technique average.</p>`+chart(o,[['tactics','#2fae66','Tactics (old)'],['perf','#5ec8f2','Teammate Performance'],['val','#ff9ad5','Teammate Value'],['ethos','#d4af37','Ethos']],-1,2,'Older sessions')}
+ return h}
 function tools(){return `<h3>Data</h3><p class="note">Saved on this browser/device only.</p>
 <button class="btn sm ghost" onclick="loadSample()">Load sample sessions (fictional)</button><button class="btn sm ghost" onclick="rmSample()">Remove samples</button>
 <button class="btn sm ghost" onclick="exp()">Export JSON</button><label class="btn sm ghost" style="display:inline-block;color:#fff">Import JSON<input type="file" accept=".json" hidden onchange="imp(this.files[0])"></label>`}
-function loadSample(){if(S.sessions.some(s=>s.sample))return toast('Samples already loaded');const s=SUG.Defense['In Season'];
+function loadSample(){if(S.sessions.some(s=>s.sample))return toast('Samples already loaded — remove them first to load the newest version');const s=SUG.Defense['In Season'];
  const data=[[0,0,1,0,[0,1,1,0,1],1],[1,0,1,1,[1,1,1,0,1],1],[0,1,1,0,[1,1,2,1,1],0],[1,1,2,1,[1,2,1,1,2],1],[2,1,1,1,[2,1,2,1,2],'na']];
  data.forEach((d,i)=>{const dt=new Date(2026,9,5+i*4).toISOString().slice(0,10);const sc={tech:d.slice(0,3),perf:d[3],val:Math.min(2,d[3]+(i%2)),ethos:d[4],tools:[1,0,1],techn:[typeof d[5]==='number'?d[5]:null]};
-  S.sessions.push({id:'sample'+i,sample:true,savedAt:i,name:`Sample practice ${i+1}`,date:dt,plan:{type:'Practice',sport:'Hockey',position:'Defense',season:'In Season',tactic:s.tactic,techniques:[...s.tech],tools:[...s.tools],techn:[...s.techn]},ethos:[...DEF_ETHOS],scores:sc,gear:{tools:[1,0,1],techn:[d[5]]},notes:'Fictional sample data.',fv:2,results:calc(sc,2)})});
+  S.sessions.push({id:'sample'+i,sample:true,savedAt:i,name:`Sample practice ${i+1}`,date:dt,plan:{type:'Practice',sport:'Hockey',position:'Defense',season:'In Season',tactic:s.tactic,techniques:[...s.tech],tools:[...s.tools],techn:[...s.techn]},ethos:[...DEF_ETHOS],scores:sc,gear:{tools:[1,0,1],techn:[d[5]]},factors:{sleepH:String(6.5+i*.5),sleep:2+(i%4),meals:3+(i%3),mealNote:'',recovery:2+i%4,life:3+(i%2),note:''},notes:'Fictional sample data.',fv:3,results:calc(sc,3)})});
  S.sel={mode:'pick',ids:S.sessions.filter(x=>x.sample).map(x=>x.id),from:'',to:''};save();render();toast('Fictional samples added')}
 function rmSample(){if(!S.sessions.some(s=>s.sample))return toast('No samples');if(!confirm('Remove sample sessions? Your real sessions stay.'))return;S.sessions=S.sessions.filter(s=>!s.sample);S.sel.ids=S.sel.ids.filter(i=>!i.startsWith('sample'));save();render()}
 function exp(){const b=new Blob([JSON.stringify(S,null,1)],{type:'application/json'});const a=document.createElement('a');a.href=URL.createObjectURL(b);a.download='arrow-backup.json';a.click()}

diff --git a/test.py b/test.py
@@ -22,8 +22,8 @@ with sync_playwright() as p:
       pg.locator('.sc').nth(3).locator('button').nth(n).click()
       pg.click('#saveBtn'); assert 'Teammate Value' in pg.inner_text('#miss')
       pg.locator('.sc').nth(4).locator('button').nth(n).click()
-      for g in range(5,10): pg.locator('.sc').nth(g).locator('button').nth(n).click()
-      pg.locator('.sc').nth(13).locator('button').nth(4).click()  # tech N/A
+      for g in range(9,14): pg.locator('.sc').nth(g).locator('button').nth(n).click()
+      pg.locator('.sc').nth(8).locator('button').nth(4).click()  # tech N/A
     score(2); assert not pg.is_visible('#miss')
     pg.screenshot(path=f'shots/arrow-{name}-score.png',full_page=True)
     pg.click('#saveBtn'); pg.wait_for_timeout(300)
@@ -37,7 +37,7 @@ with sync_playwright() as p:
     pg.click('text=Pick sessions'); pg.click('text=Load sample sessions')
     assert '5 session(s) selected' in pg.content()
     pg.screenshot(path=f'shots/arrow-{name}-trends.png',full_page=True)
-    assert 'Teammate Value' in pg.content() and 'formula v2' in pg.content()
+    assert 'Teammate Value' in pg.content() and 'formula v3' in pg.content()
     pg.click('text=One session'); pg.reload()
     assert pg.evaluate("JSON.parse(localStorage.ae_arrow_v1).sessions.length")==7
     assert pg.evaluate("JSON.parse(localStorage.ae_arrow_v1).sessions[0].results.techn")==None
@@ -129,3 +129,52 @@ with sync_playwright() as p:
     assert t.count(T)==1 and t.index('a belief and a mission. '+T)>0
     assert pg.evaluate('document.documentElement.scrollWidth')<=vp['width']
     print('conv ok',e); pg.close()
+
+import json,tempfile,os
+with sync_playwright() as p:
+  b=p.chromium.launch(executable_path='/usr/bin/google-chrome',args=['--no-sandbox'])
+  for vp in [{'width':390,'height':844},{'width':1280,'height':900}]:
+    pg=b.new_page(viewport=vp); e=[]; pg.on('pageerror',lambda x:e.append(str(x))); pg.on('console',lambda m: m.type=='error' and 'favicon' not in m.text and '404' not in m.text and e.append(m.text)); pg.on('dialog',lambda d:d.accept())
+    pg.goto(url); pg.evaluate('localStorage.clear()'); pg.reload()
+    li=[x.split(' ')[0] for x in pg.locator('main ol li').all_inner_texts()][:5]; assert li==['Tactics','Techniques','Teammate','Tools','Tech'],li
+    pg.click('text=Build my first session'); pg.fill('#nm','V3 test'); pg.fill('#dt','2026-11-07')
+    h=[x.split(' (')[0] for x in pg.locator('main h3').all_inner_texts()]; assert h==['1 · Tactics','2 · Techniques','3 · Teammate','4 · Tools','5 · Tech'],h
+    pg.click('nav >> text=4 Self Score')
+    assert 'pending' in pg.inner_text('#tacticsCard')
+    sc=lambda g,i: pg.locator('.sc').nth(g).locator('button').nth(i).click()
+    sc(0,2);sc(1,2);sc(2,3); sc(3,2); assert 'pending' in pg.inner_text('#tacticsCard'), 'value missing must stay pending'
+    sc(4,1); sc(5,3); sc(6,4); sc(8,4)
+    t=pg.inner_text('#tacticsCard'); assert '+1.28' in t and 'average of 3 active Angles' in t, t
+    pg.click('#saveBtn'); assert 'Ethos 1' in pg.inner_text('#miss')
+    for g in range(9,14): sc(g,2)
+    o=pg.evaluate("[...document.querySelectorAll('#app h3')].map(h=>h.innerText)"); idx=lambda k:[i for i,x in enumerate(o) if x.startswith(k)][0]
+    assert idx('Tactics Score')<idx('2 · Techniques')<idx('3 · Teammate')<idx('4 · Tools')<idx('5 · Tech')<idx('Ethos')<idx('Additional Factors'),o
+    ft=pg.inner_text('#factors'); assert ft.index('How we handle sleep')<ft.index('1 to 5, higher is better')<ft.index('Sleep hours')
+    pg.locator('#factors').screenshot(path=f'shots/arrow-factors-{vp["width"]}.png'); pg.locator('#tacticsCard').screenshot(path=f'shots/arrow-tactics-card-{vp["width"]}.png')
+    pg.fill('#slh','8'); sc(14,3); pg.fill('#mn','pasta'); pg.reload()
+    assert pg.input_value('#mn')=='pasta' and pg.input_value('#slh')=='8'
+    pg.click('#saveBtn'); pg.wait_for_timeout(200)
+    r=pg.evaluate("JSON.parse(localStorage.ae_arrow_v1).sessions[0]"); R=r['results']
+    assert r['fv']==3 and abs(R['tactics']-(4/3+.5+2)/3)<1e-9 and R['techn'] is None and R['tools']==2 and R['teammate']==.5 and R['denom']==3 and R['combined']==R['tactics']+1 and r['factors']['sleep']==4 and r['factors']['meals'] is None, R
+    assert 'Sleep 8 h' in pg.content() and 'Meal note: pasta' in pg.content()
+    pg.click('nav >> text=2 Customize Session'); pg.click('#repeat'); pg.click('nav >> text=4 Self Score')
+    assert pg.locator('.sc button[aria-pressed=true]').count()==0 and pg.input_value('#slh')=='' and pg.input_value('#mn')==''
+    # import mixed v2 + v3
+    d={'v':1,'sessions':[{'id':'imp2','savedAt':5,'name':'Imported v2','date':'2026-09-01','fv':2,'plan':{'type':'Practice','sport':'Hockey','position':'Defense','season':'In Season','tactic':'T','techniques':['a'],'tools':[],'techn':[]},'ethos':['1','2','3','4','5'],'scores':{'tech':[1],'perf':1,'val':2,'ethos':[1,1,1,1,1],'tools':[],'techn':[]},'gear':{'tools':[],'techn':[]},'notes':''}]}
+    fn=tempfile.mktemp(suffix='.json'); open(fn,'w').write(json.dumps(d))
+    pg.click('nav >> text=5 Past'); pg.set_input_files('input[type=file]',fn); pg.wait_for_timeout(300)
+    s2=pg.evaluate("JSON.parse(localStorage.ae_arrow_v1).sessions.find(s=>s.id=='imp2')"); assert s2['fv']==2 and abs(s2['results']['player']-4/3)<1e-9
+    pg.click('text=Load sample sessions'); pg.click('text=Pick sessions')
+    for c in pg.locator('.sess input[type=checkbox]').all():
+      if not c.is_checked(): c.check()
+    assert 'Older sessions (formula v1/v2' in pg.content()
+    btn=pg.locator('.lgb[data-hl=techniques]').first; btn.focus(); pg.keyboard.press('Enter')
+    assert pg.locator('g[data-k=techniques]').first.get_attribute('opacity')=='1' and pg.locator('g[data-k=tactics]').first.get_attribute('opacity')=='0.18'
+    assert pg.locator('.lgb[data-hl=techniques]').first.get_attribute('aria-pressed')=='true'
+    pg.locator('svg[aria-label^="The 5 Angles"]').scroll_into_view_if_needed()
+    pg.screenshot(path=f'shots/arrow-trend-highlight-{vp["width"]}.png')
+    pg.locator('.lgb[data-hl=techniques]').first.focus(); pg.keyboard.press('Enter')
+    assert pg.locator('g[data-k=tactics]').first.get_attribute('opacity')=='1'
+    pg.locator('.lgb[data-hl=sleep]').first.click(); assert pg.locator('g[data-k=meals]').first.get_attribute('opacity')=='0.18'
+    assert pg.evaluate('document.documentElement.scrollWidth')<=vp['width']
+    print('v3 ok',e); pg.close()
